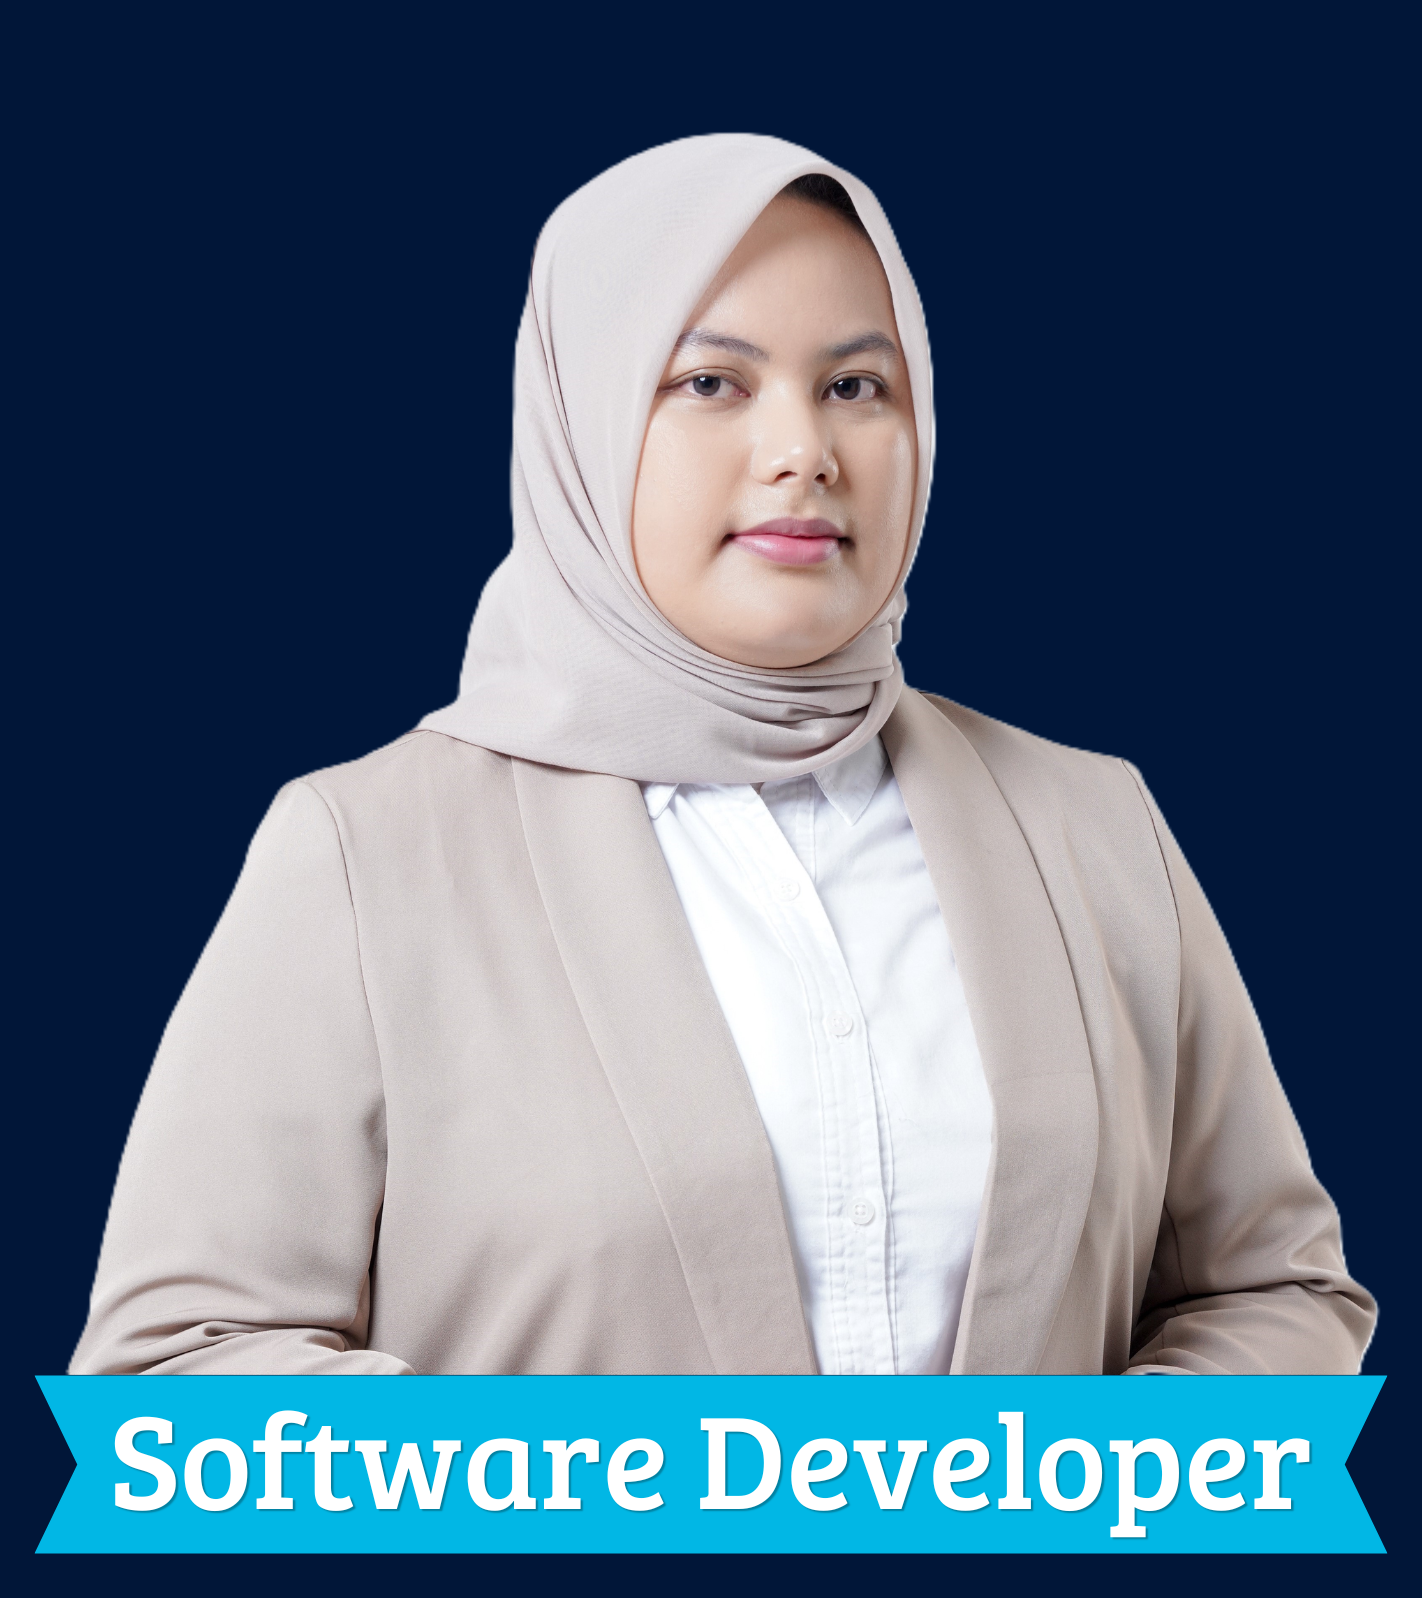
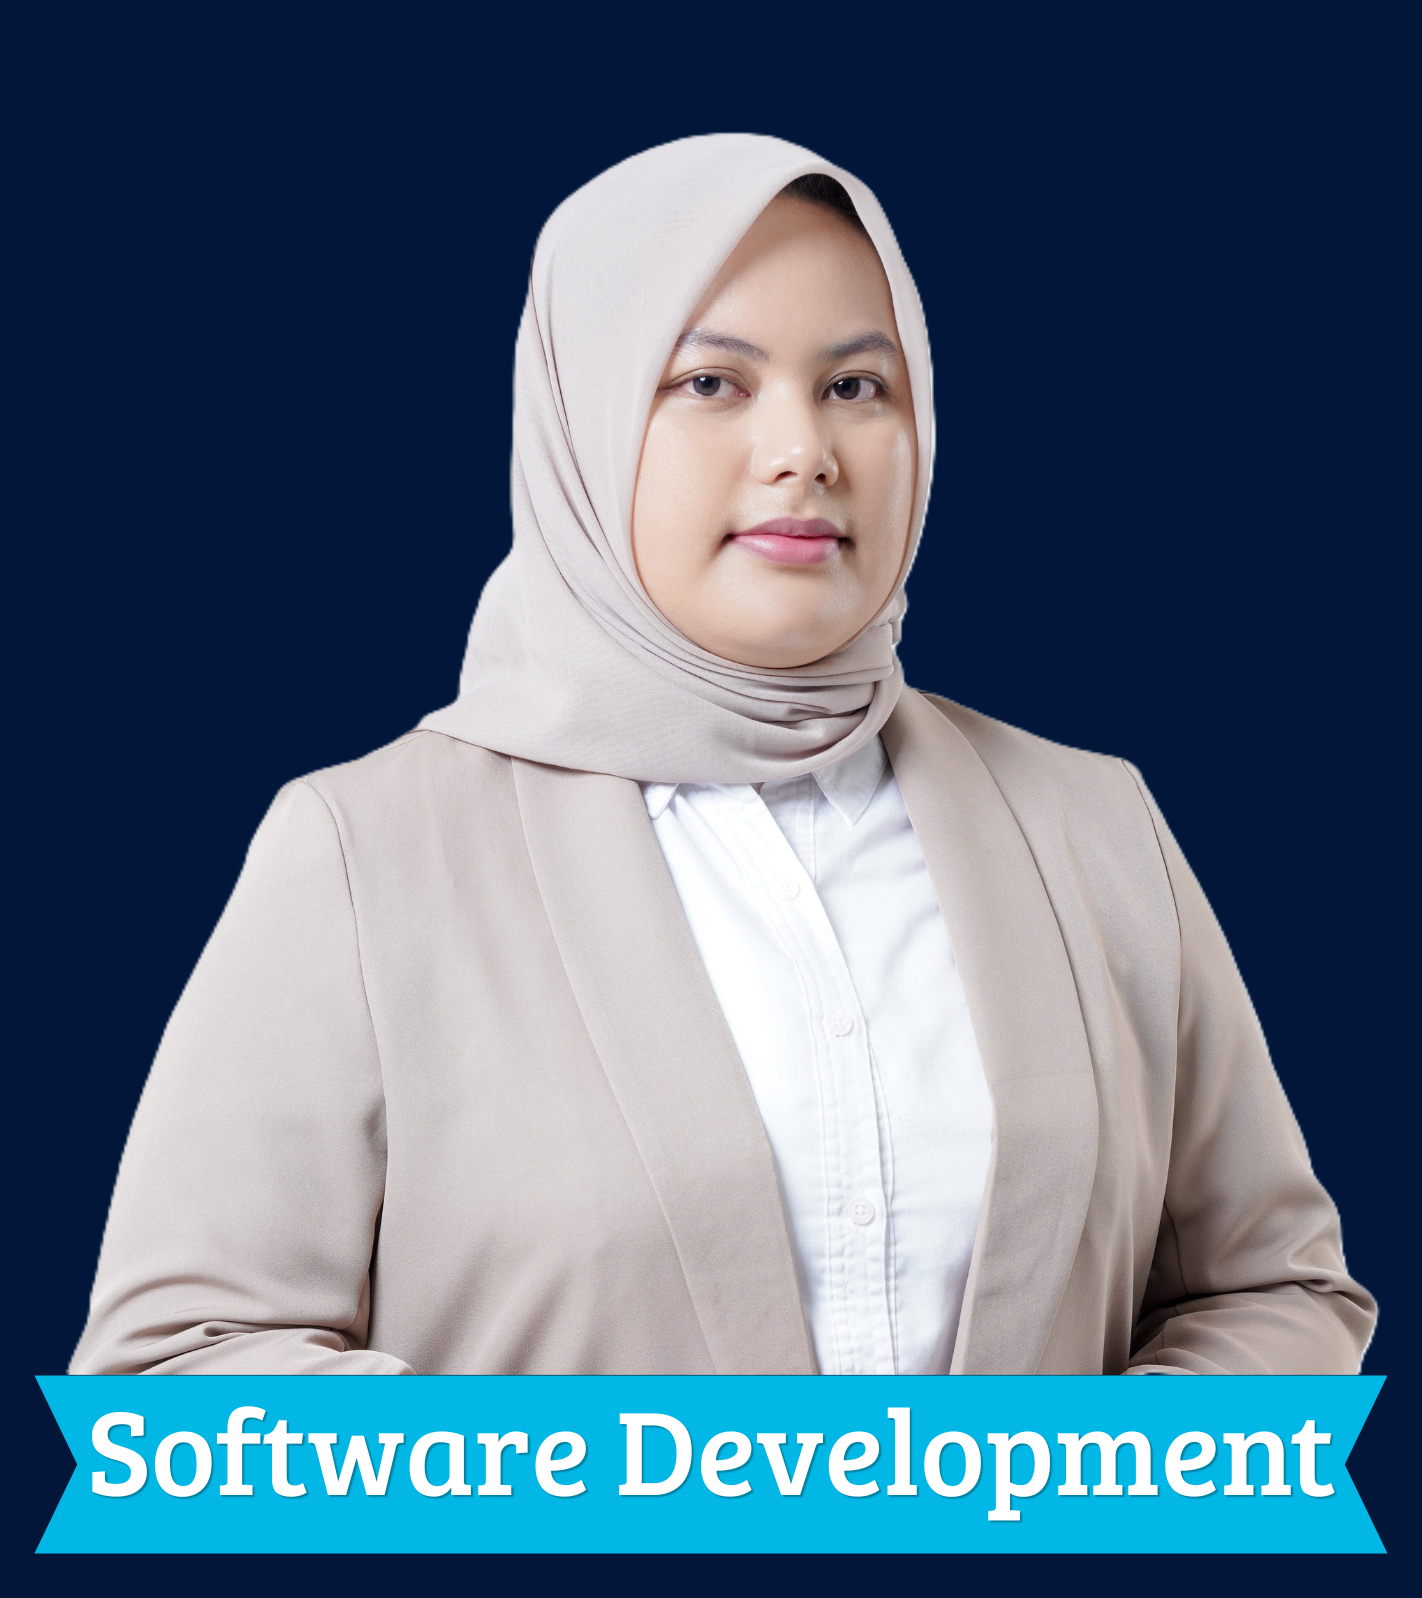
edithero

Changed region(s): [[0.0619, 0.8586, 0.9283, 0.9812]]

diff --git a/src/sections/Hero.jsx b/src/sections/Hero.jsx
@@ -7,10 +7,10 @@ const Hero = () => {
   // const navigate = useNavigate();
 
   const myProfessions = [
-    "Software Developer",
-    "System Analyst",
-    "Web Developer",
-    "Front-End Developer",
+    "Software Development",
+    "System Analysis",
+    "Web development",
+    "Front-End Development",
     "Tech Enthusiast",
   ];
 
@@ -78,7 +78,7 @@ const Hero = () => {
         >
           <ProfileCard
             name="Ataya Najla"
-            title="Software Developer"
+            title="Software Development"
             handle="atayanajla"
             contactText="Contact Me"
             avatarUrl="/imgs/fotoformal.png"
